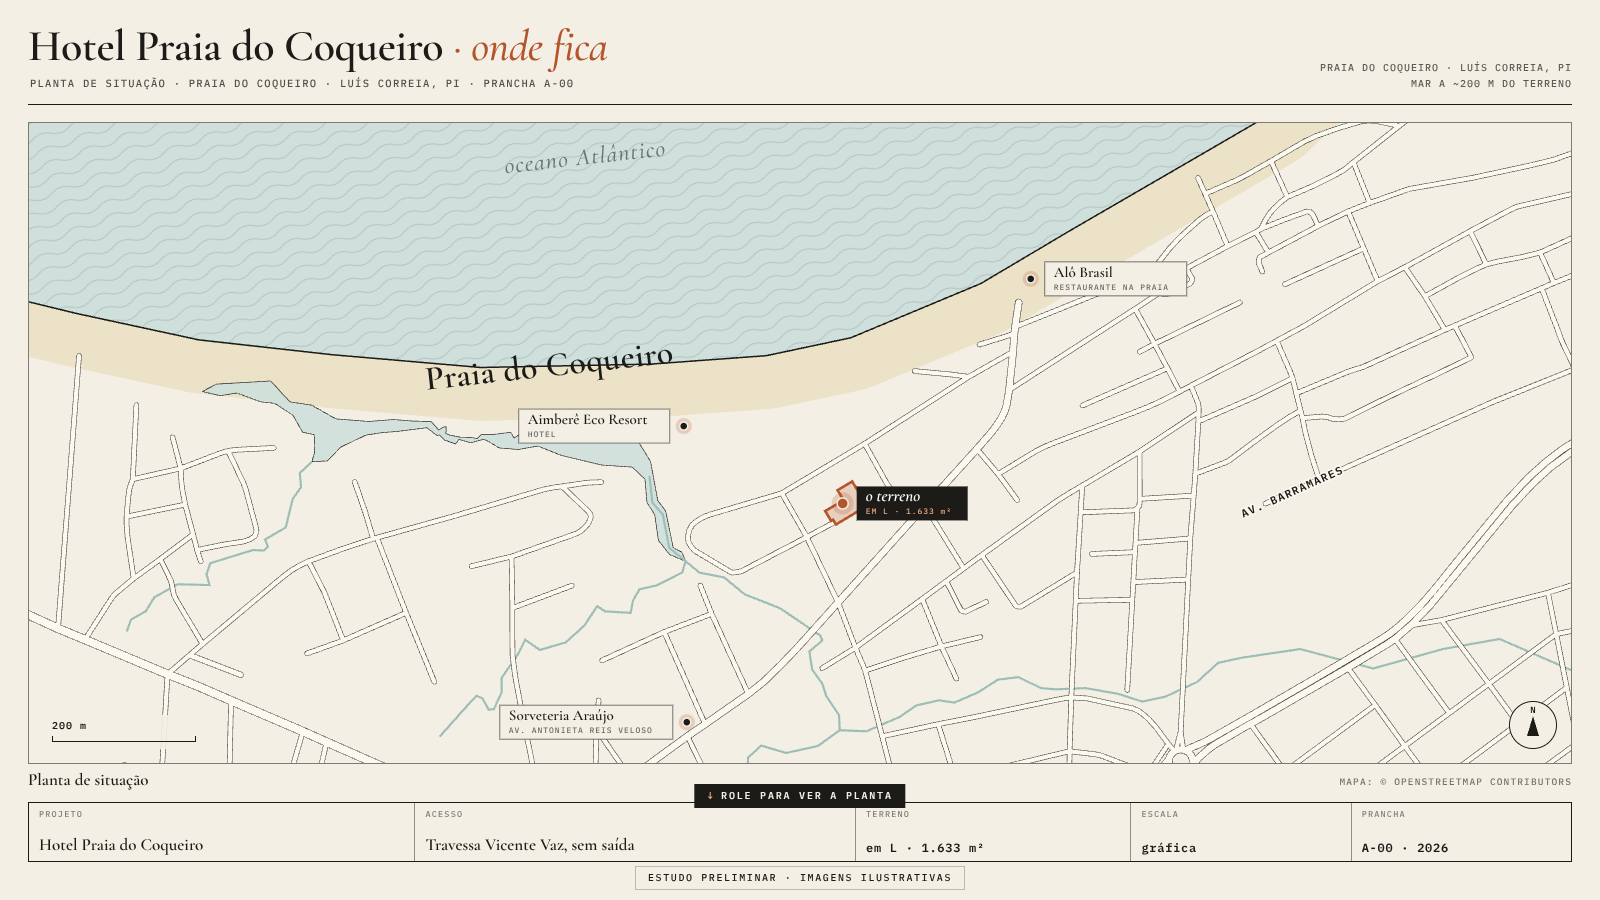
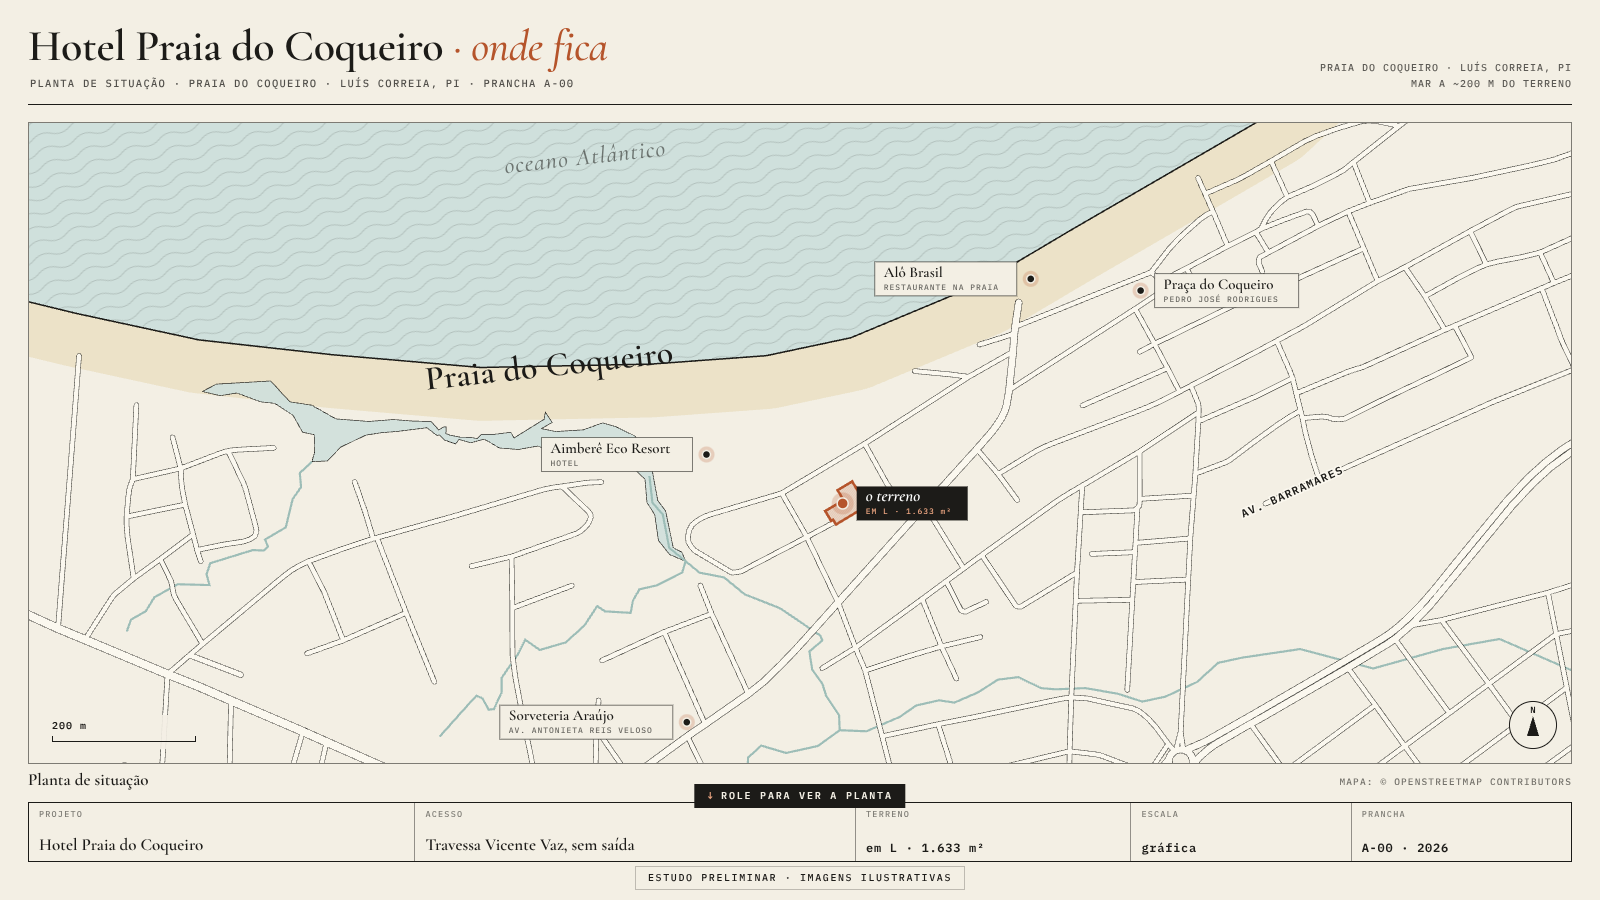
Situação: Praça do Coqueiro e Aimberê reposicionado
Claude-Session: https://claude.ai/code/session_01YPcRSbRADDpDwY2jFYXNFA

Changed region(s): [[0.5312, 0.28, 0.8125, 0.3422], [0.3125, 0.4356, 0.4688, 0.5289]]

diff --git a/index.html b/index.html
@@ -201,8 +201,9 @@
 <g class="mk al" data-x="-411" data-y="-179" data-r="-6.3" data-a="-1" data-b="0.5"><text class="big" text-anchor="middle">Praia do Coqueiro</text></g>
 <g class="mk al" data-x="-361" data-y="-477" data-r="-6.3" data-a="-1" data-b="0.45"><text class="sea" text-anchor="middle">oceano Atlântico</text></g>
 </g>
-<g class="mk up pin" data-x="-223.5" data-y="-108.8" data-a="-1" data-b="0.62"><circle r="8" class="halo"/><circle r="4" class="dot"/><rect x="-165" y="-17" width="151" height="34" class="tag"/><text x="-156" y="-2" class="t1">Aimberê Eco Resort</text><text x="-156" y="11" class="t2">HOTEL</text></g>
-<g class="mk up pin" data-x="264.5" data-y="-315.8" data-a="-1" data-b="0.62"><circle r="8" class="halo"/><circle r="4" class="dot"/><rect x="14" y="-17" width="142" height="34" class="tag"/><text x="23" y="-2" class="t1">Alô Brasil</text><text x="23" y="11" class="t2">RESTAURANTE NA PRAIA</text></g>
+<g class="mk up pin" data-x="-191.5" data-y="-68.8" data-a="-1" data-b="0.62"><circle r="8" class="halo"/><circle r="4" class="dot"/><rect x="-165" y="-17" width="151" height="34" class="tag"/><text x="-156" y="-2" class="t1">Aimberê Eco Resort</text><text x="-156" y="11" class="t2">HOTEL</text></g>
+<g class="mk up pin" data-x="264.5" data-y="-315.8" data-a="-1" data-b="0.62"><circle r="8" class="halo"/><circle r="4" class="dot"/><rect x="-156" y="-17" width="142" height="34" class="tag"/><text x="-147" y="-2" class="t1">Alô Brasil</text><text x="-147" y="11" class="t2">RESTAURANTE NA PRAIA</text></g>
+<g class="mk up pin" data-x="419.0" data-y="-299.3" data-a="-1" data-b="0.62"><circle r="8" class="halo"/><circle r="4" class="dot"/><rect x="14" y="-17" width="144" height="34" class="tag"/><text x="23" y="-2" class="t1">Praça do Coqueiro</text><text x="23" y="11" class="t2">PEDRO JOSÉ RODRIGUES</text></g>
 <g class="mk up pin" data-x="-219.2" data-y="307.6" data-a="-1" data-b="0.62"><circle r="8" class="halo"/><circle r="4" class="dot"/><rect x="-187" y="-17" width="173" height="34" class="tag"/><text x="-178" y="-2" class="t1">Sorveteria Araújo</text><text x="-178" y="11" class="t2">AV. ANTONIETA REIS VELOSO</text></g>
 <g class="mk up pin main" data-x="0.0" data-y="-0.0" data-a="-1" data-b="0.8"><circle r="11" class="halo"/><circle r="5.5" class="dot"/><rect x="14" y="-17" width="111" height="34" class="tag"/><text x="23" y="-2" class="t1">o terreno</text><text x="23" y="11" class="t2">EM L · 1.633 m²</text></g>
 </svg><!--/SIT--><div id="sitn"></div><div id="sitsc"><span></span><i></i></div></div>

diff --git a/tools/situacao.py b/tools/situacao.py
@@ -52,7 +52,9 @@ def pin(p, txt, sub, a, b, side=1, main=False):
     c = 'pin main' if main else 'pin'
     return (f'<g class="mk up {c}" data-x="{x:.1f}" data-y="{y:.1f}" data-a="{a}" data-b="{b}"><circle r="{11 if main else 8}" class="halo"/><circle r="{5.5 if main else 4}" class="dot"/>'
             f'<rect x="{x0:.0f}" y="-17" width="{w:.0f}" height="{34 if sub else 22}" class="tag"/><text x="{x0 + 9:.0f}" y="-2" class="t1">{txt}</text>' + (f'<text x="{x0 + 9:.0f}" y="11" class="t2">{sub}</text>' if sub else '') + '</g>')
-s += [pin((-282, 102), 'Aimberê Eco Resort', 'HOTEL', -1, .62, -1), pin((206, 309), 'Alô Brasil', 'RESTAURANTE NA PRAIA', -1, .62),
+# Aimberê: terreno grande, marcador no meio entre a R. Francisco Gomes e a faixa de areia. Praça: coordenada do Google Maps passada pelo Leonardo (-2.906498, -41.574703)
+s += [pin((-250, 62), 'Aimberê Eco Resort', 'HOTEL', -1, .62, -1), pin((206, 309), 'Alô Brasil', 'RESTAURANTE NA PRAIA', -1, .62, -1),
+      pin((360.5, 292.5), 'Praça do Coqueiro', 'PEDRO JOSÉ RODRIGUES', -1, .62),
       pin((-277.7, -314.4), 'Sorveteria Araújo', 'AV. ANTONIETA REIS VELOSO', -1, .62, -1), pin(CC, 'o terreno', 'EM L · 1.633 m²', -1, .8, 1, True)]
 s.append('</svg>')
 svg = '\n'.join(s)

diff --git a/CLAUDE.md b/CLAUDE.md
@@ -17,7 +17,7 @@ Leonardo responde em português, quer respostas curtas e objetivas, é visual, e
 - x: frente (0, estacionamento/acesso) → fundo (53). z: lado do mar (0) → lado de terra (23). y para cima.
 - Terreno ~53 × 23 m (~1.200 m²). Frente com "dente": muro em x=0 para z 0–15,6 e recuado para x=2 em z 15,6–23 (entrada de carro).
 - ATUALIZAÇÃO (certidão da prefeitura): o lote é em L, 1.632,78 m² — frente 24 m, fundos 40,2 m, norte 30 + 23,9 m. No site (`js/world.js`, `FX`/`LOT`) os blocos ficam nas coordenadas do GLB e o lote vai de x=3 a x=56 (blocos 3 m mais perto do estacionamento, passagem de 5 m no fundo); a ala nova é x 32,1–56, z −16,2–0, com deck de madeira 17 × 8 m e pergolado de churrasco (bancada, churrasqueira, mesa para 10). No deck há também uma piscina pequena de pedra hijau (4,5 × 2,2 m) com as espreguiçadeiras viradas para ela; o jardim tem canteiros tropicais, primavera, yucas, coqueiros jovens e um cajueiro (pedidos do Leonardo). Muros e gramado do lote são refeitos em código; o resto segue o GLB.
-- As primeiras telas do site são a prancha A-00, planta de situação: cena aberta com o mar e marcadores (Aimberê, Alô Brasil, Sorveteria Araújo), zoom até o terreno, giro e troca pela planta do térreo. O mapa vem do OpenStreetMap (`tools/osm_coqueiro.json`, crédito obrigatório "© OpenStreetMap contributors"); `tools/situacao.py` gera o SVG e o injeta em `index.html` entre `<!--SIT-->` e `<!--/SIT-->`; a animação é `sitAt()` em `js/main.js`. O lote fica na ponta da Travessa Vicente Vaz, com o lado norte paralelo à R. Francisco Gomes. Não usar imagem do Google Maps no site.
+- As primeiras telas do site são a prancha A-00, planta de situação: cena aberta com o mar e marcadores (Aimberê, Alô Brasil, Sorveteria Araújo, Praça do Coqueiro), zoom até o terreno, giro e troca pela planta do térreo. O mapa vem do OpenStreetMap (`tools/osm_coqueiro.json`, crédito obrigatório "© OpenStreetMap contributors"); `tools/situacao.py` gera o SVG e o injeta em `index.html` entre `<!--SIT-->` e `<!--/SIT-->`; a animação é `sitAt()` em `js/main.js`. O lote fica na ponta da Travessa Vicente Vaz, com o lado norte paralelo à R. Francisco Gomes. Não usar imagem do Google Maps no site.
 
 ## Programa
 - Estacionamento de areia compactada na frente (x 0–~16), 6 vagas.
